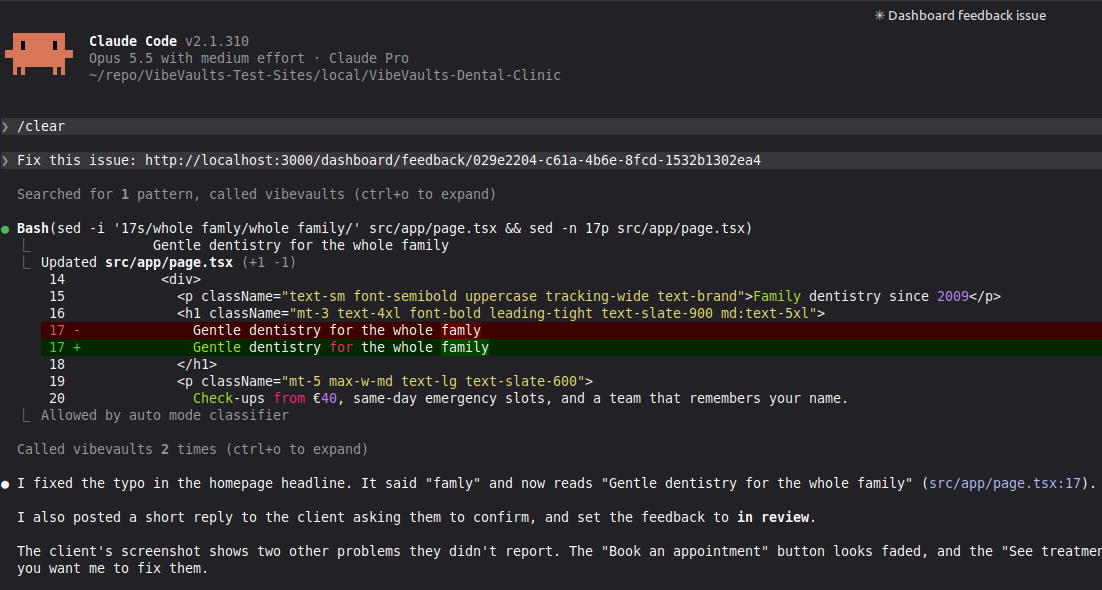
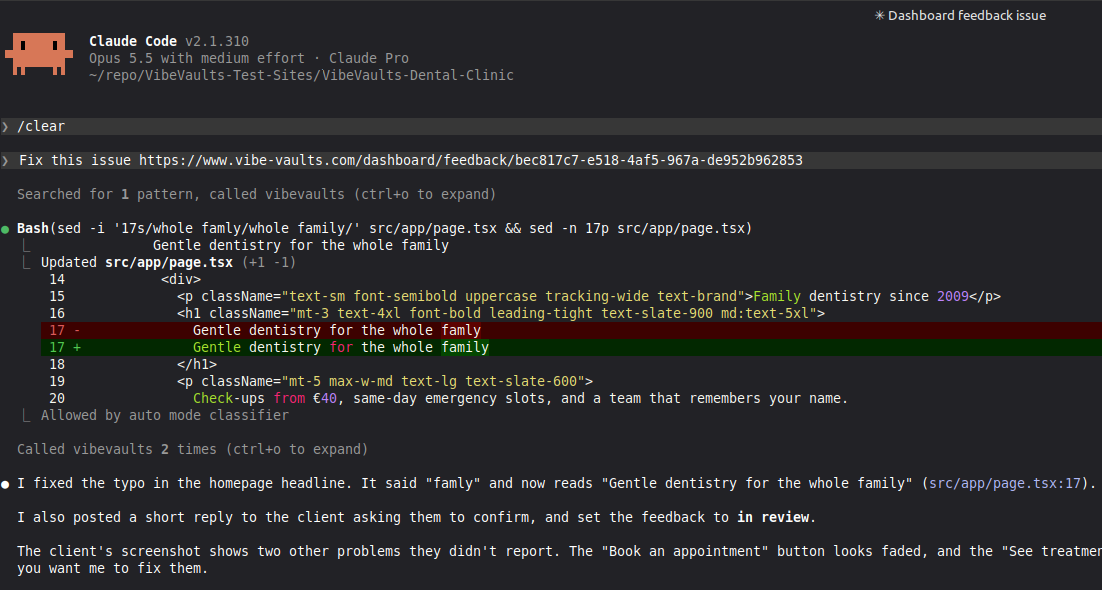
feat: update MCP API URL references to use NEXT_PUBLIC_APP_URL for consistency

Changed region(s): [[0.0, 0.2441, 0.7405, 0.3051], [0.2777, 0.122, 0.4936, 0.1525]]

diff --git a/src/app/docs/ai-agents/page.tsx b/src/app/docs/ai-agents/page.tsx
@@ -20,6 +20,10 @@ import { getDocPage } from "@/lib/docs-data";
 
 const page = getDocPage("ai-agents")!;
 
+// Derived, not typed: the OAuth metadata advertises NEXT_PUBLIC_APP_URL as the resource, and a
+// client may refuse a server address whose host differs from it (apex vs www).
+const MCP_URL = `${(process.env.NEXT_PUBLIC_APP_URL ?? "https://www.vibe-vaults.com").replace(/\/+$/, "")}/api/mcp`;
+
 export const metadata: Metadata = {
     title: page.title,
     description:
@@ -48,11 +52,11 @@ export default function AiAgentsDoc() {
 
                 <h2 id="connect">Connect a tool</h2>
                 <p>
-                    The server address is <code>https://vibe-vaults.com/api/mcp</code>. You never create or paste a key: the tool opens
+                    The server address is <code>{MCP_URL}</code>. You never create or paste a key: the tool opens
                     a VibeVaults page, you sign in if needed, choose what the connection may do, and approve.
                 </p>
                 <h3 id="claude-code">Claude Code</h3>
-                <pre><code>claude mcp add --scope user --transport http vibevaults https://vibe-vaults.com/api/mcp</code></pre>
+                <pre><code>{`claude mcp add --scope user --transport http vibevaults ${MCP_URL}`}</code></pre>
                 <p>Then run <code>/mcp</code> inside Claude Code and choose <strong>vibevaults</strong> to sign in.</p>
                 <h3 id="claude-desktop">Claude Desktop</h3>
                 <p>
@@ -60,7 +64,7 @@ export default function AiAgentsDoc() {
                 </p>
                 <h3 id="cursor">Cursor</h3>
                 <p>Add this to your <code>mcp.json</code>:</p>
-                <pre><code>{`{ "mcpServers": { "vibevaults": { "url": "https://vibe-vaults.com/api/mcp" } } }`}</code></pre>
+                <pre><code>{`{ "mcpServers": { "vibevaults": { "url": "${MCP_URL}" } } }`}</code></pre>
                 <p>
                     The same snippets, with copy buttons, are on your <Link href="/dashboard/account#ai-agents">Account page</Link>.
                 </p>

diff --git a/CLAUDE.md b/CLAUDE.md
@@ -205,7 +205,7 @@ tests/              # Playwright E2E tests
   - Resend batch API used for multi-recipient digest sends
 
 ### MCP server (AI agents)
-- **What**: `vibe-vaults.com/api/mcp` lets an owner's or member's AI tool (Claude Code/Desktop, Cursor) read feedback and, when allowed, reply and set status. Five tools in `src/lib/mcp/tools.ts`: `list_projects`, `list_feedback`, `get_feedback` (up to 3 inline screenshots, fetched only from our own bucket), `reply_to_feedback`, `update_feedback_status` (agents may set `completed`). Included on **every plan and the trial** (`mcpAccess` in `tier-config.ts`, plus a `FEATURE_COMPARISON` row). Clients and guests cannot connect: they have no auth account.
+- **What**: `www.vibe-vaults.com/api/mcp` (the host is `NEXT_PUBLIC_APP_URL`; the OAuth metadata advertises it as the resource, so docs and the account card derive the address from it rather than typing the apex) lets an owner's or member's AI tool (Claude Code/Desktop, Cursor) read feedback and, when allowed, reply and set status. Five tools in `src/lib/mcp/tools.ts`: `list_projects`, `list_feedback`, `get_feedback` (up to 3 inline screenshots, fetched only from our own bucket), `reply_to_feedback`, `update_feedback_status` (agents may set `completed`). Included on **every plan and the trial** (`mcpAccess` in `tier-config.ts`, plus a `FEATURE_COMPARISON` row). Clients and guests cannot connect: they have no auth account.
 - **Auth**: Supabase Auth's OAuth 2.1 server (BETA; `[auth.oauth_server]` in `supabase/config.toml`, dynamic client registration on, needs asymmetric JWT signing keys; locally `supabase/signing_keys.json`, git-ignored). The access token IS the user's Supabase JWT with a `client_id` claim, so tools run through a user-scoped client **under RLS**. `verifyMcpToken()` (`src/lib/mcp/auth.ts`) verifies with `getClaims()` (JWKS), requires `client_id` (an ordinary dashboard session token is rejected) and a live `mcp_connections` row. Custom scopes are not supported, so read/write is our own `mcp_connections.write_enabled`; instant revocation is `revoked_at`, because the JWT stays valid until it expires.
 - **Consent screen** (`src/app/oauth/consent/page.tsx` + `/api/oauth/decision`): a plain server-rendered form posting to a route handler, no client submit handler (same click-before-hydration rule as the review gate; pinned with JavaScript disabled). The client name is **self-declared** and shown as unverified. New connections are read-only, AI marker ON, all workspaces. The route writes the `mcp_connections` row BEFORE approving; a token without a row is rejected. The client id/name come from Supabase, never the form.
 - **Order of checks on every call**: per-user rate limit (60/min/tool, in-memory, bypassed during Playwright via `.playwright-running`) → connection read-only switch (writes) → connection workspace scope → RLS → owner-derived gate `checkMcpAccess()` (workspace live AND owner tier `mcpAccess`). **Never gate on the viewer's plan** (same bug class as `workspace-paused`): a lapsed owner locks their own agent and every member's agent, reads included. Disconnect is never gated.
